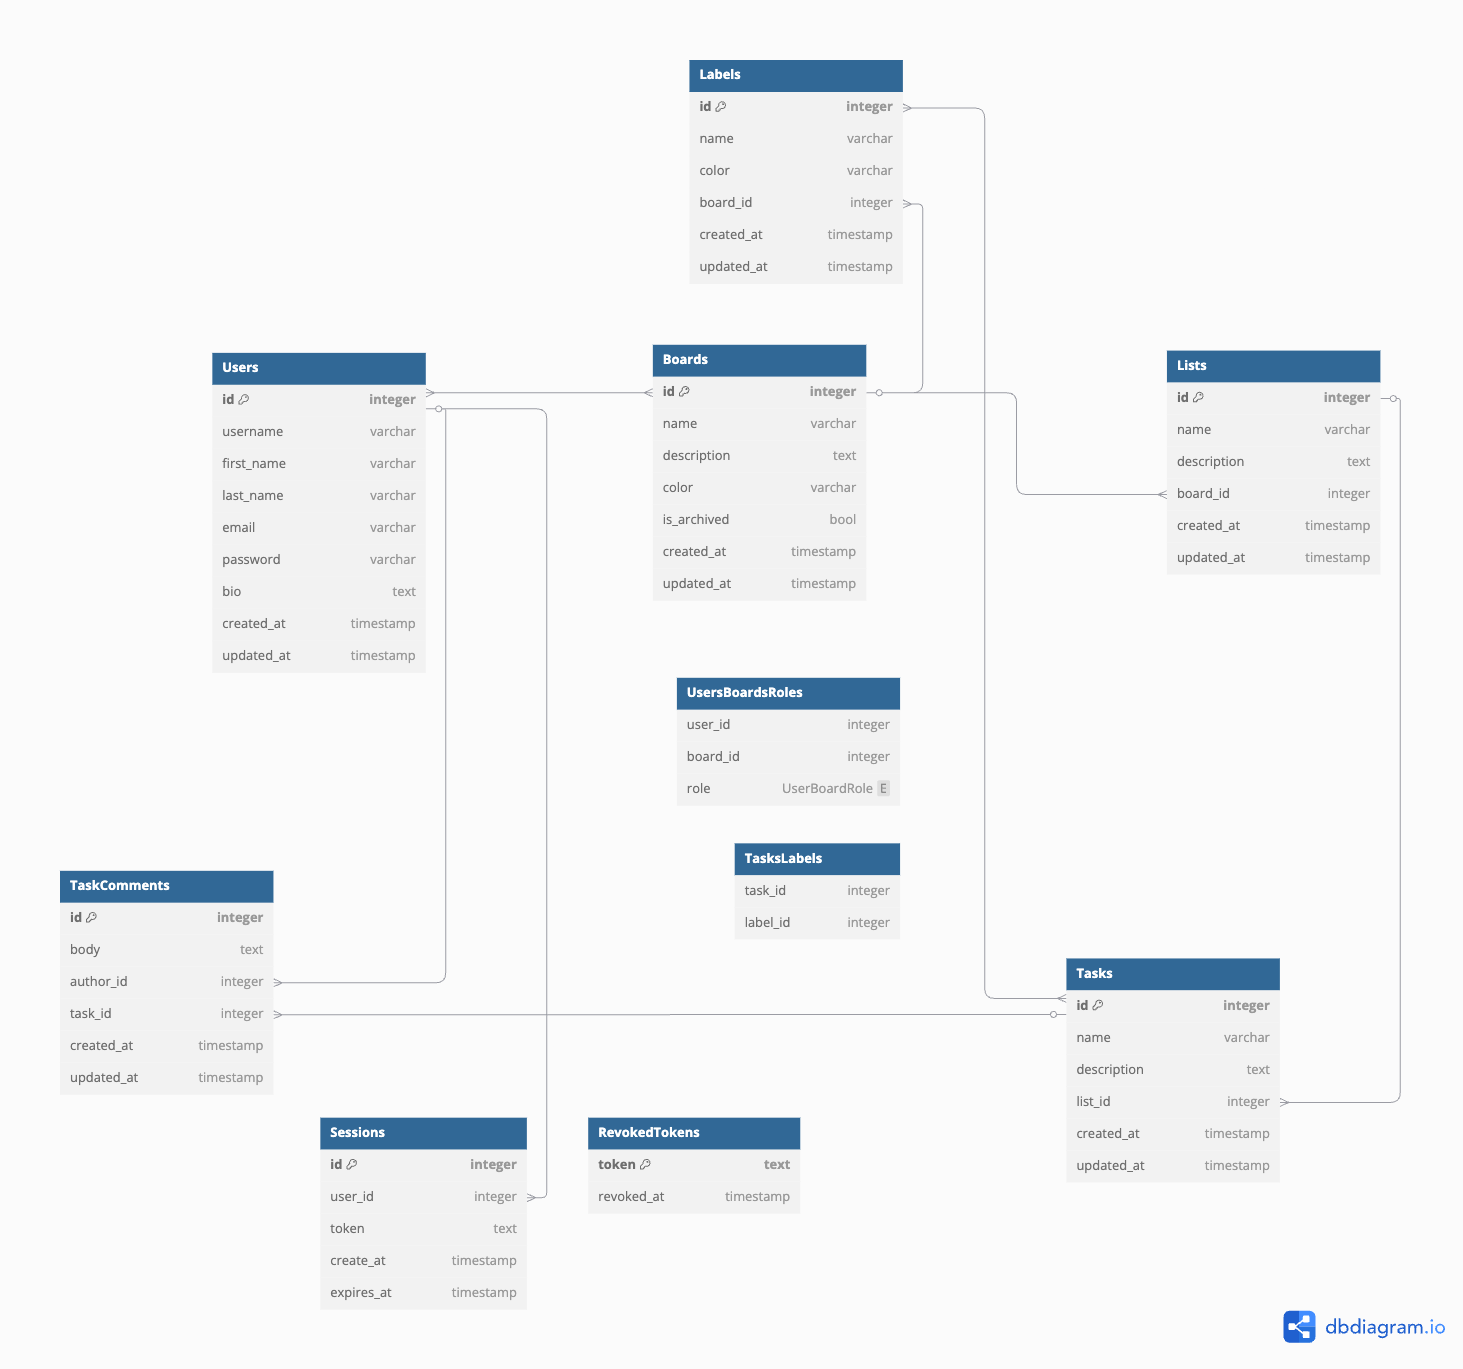
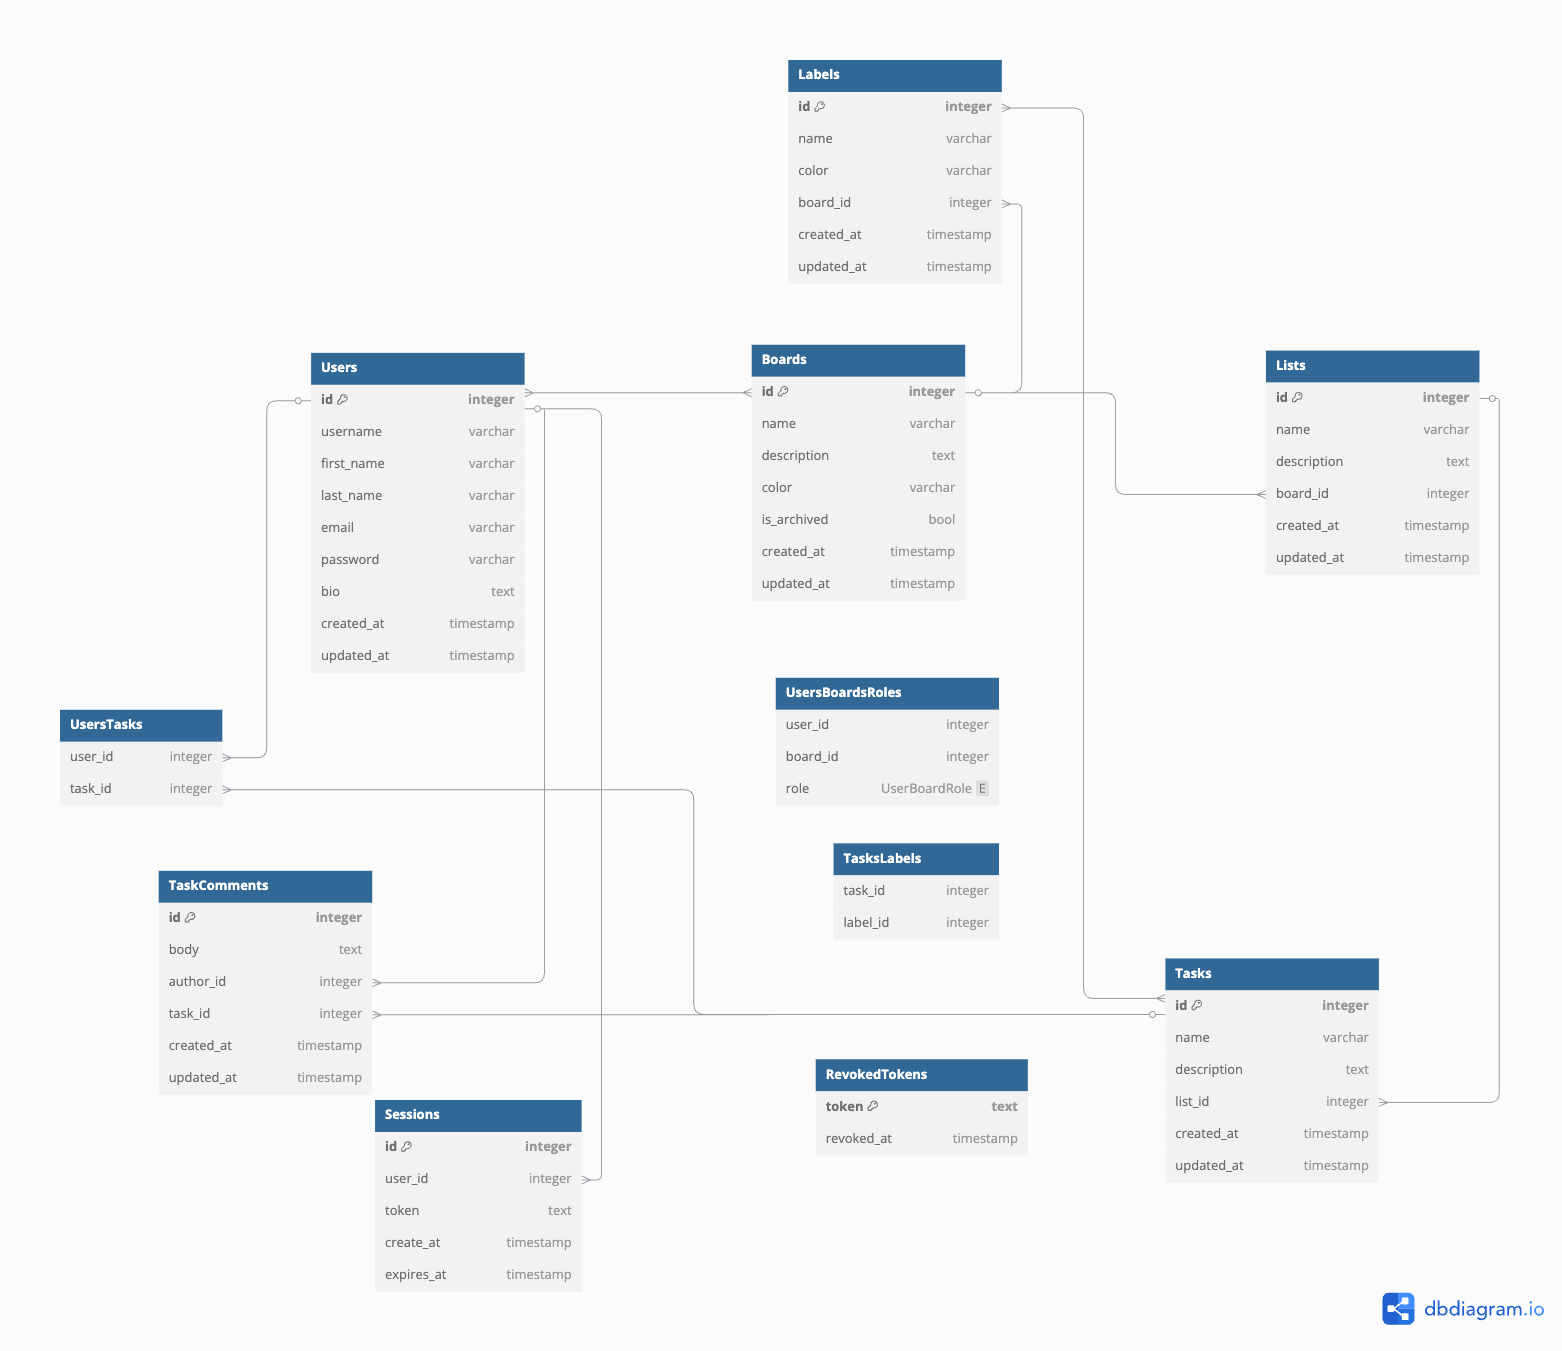
JL-8: Added users_tasks table

diff --git a/scripts/database/setup.js b/scripts/database/setup.js
@@ -17,6 +17,7 @@ function clear() {
       DROP TABLE IF EXISTS sessions;
       DROP TABLE IF EXISTS revoked_tokens;
       DROP TABLE IF EXISTS users_boards_roles;
+      DROP TABLE IF EXISTS users_tasks;
       DROP TABLE IF EXISTS tasks_labels;
       DROP TABLE IF EXISTS task_comments;
       DROP TABLE IF EXISTS users;
@@ -209,6 +210,20 @@ function migrate() {
         PRIMARY KEY (task_id, label_id),
         FOREIGN KEY (task_id) REFERENCES tasks(id) ON DELETE CASCADE,
         FOREIGN KEY (label_id) REFERENCES labels(id) ON DELETE CASCADE
+      );
+    `);
+
+    // ====================
+    // Users-Tasks
+    // ====================
+
+    await client.query(`
+      CREATE TABLE users_tasks (
+        user_id INT NOT NULL,
+        task_id INT NOT NULL,
+        PRIMARY KEY (user_id, task_id),
+        FOREIGN KEY (user_id) REFERENCES users(id) ON DELETE CASCADE,
+        FOREIGN KEY (task_id) REFERENCES tasks(id) ON DELETE CASCADE
       );
     `);
 
